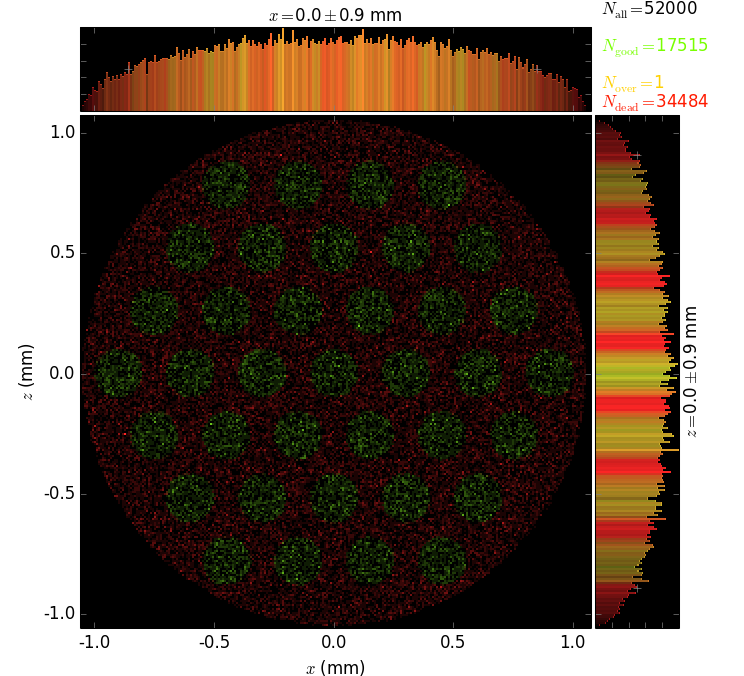
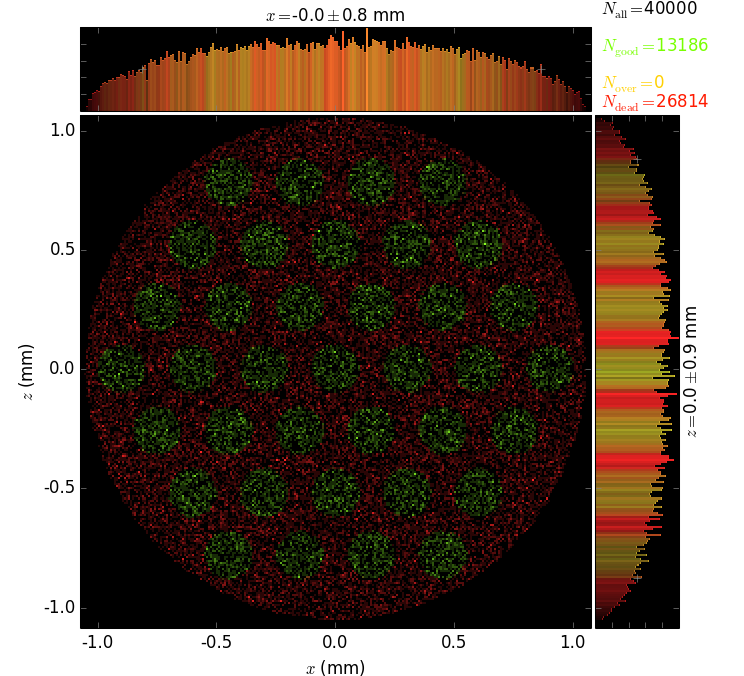
limPhysY change unobserved

diff --git a/myCapillary0A.py b/myCapillary0A.py
@@ -114,7 +114,7 @@ def build_beamline(nrays=1000):
                 roll = roll1 + i*np.pi/3.
                 capillary = BentCapillary(
                     beamLine, 'BentCapillary', [0, 0, 0], roll=roll,
-                    material=mGlass, limPhysY=[rSample*np.cos(alpha), f*4/5],
+                    material=mGlass, limPhysY=[rSample*np.cos(alpha), f*14/5],
                     f=f, rSample=rSample, entranceAlpha=alpha, rIn=r0, rOut=r0)
                 beamLine.capillaries.append(capillary)
                 if beamLine.xzMax < capillary.b0:
